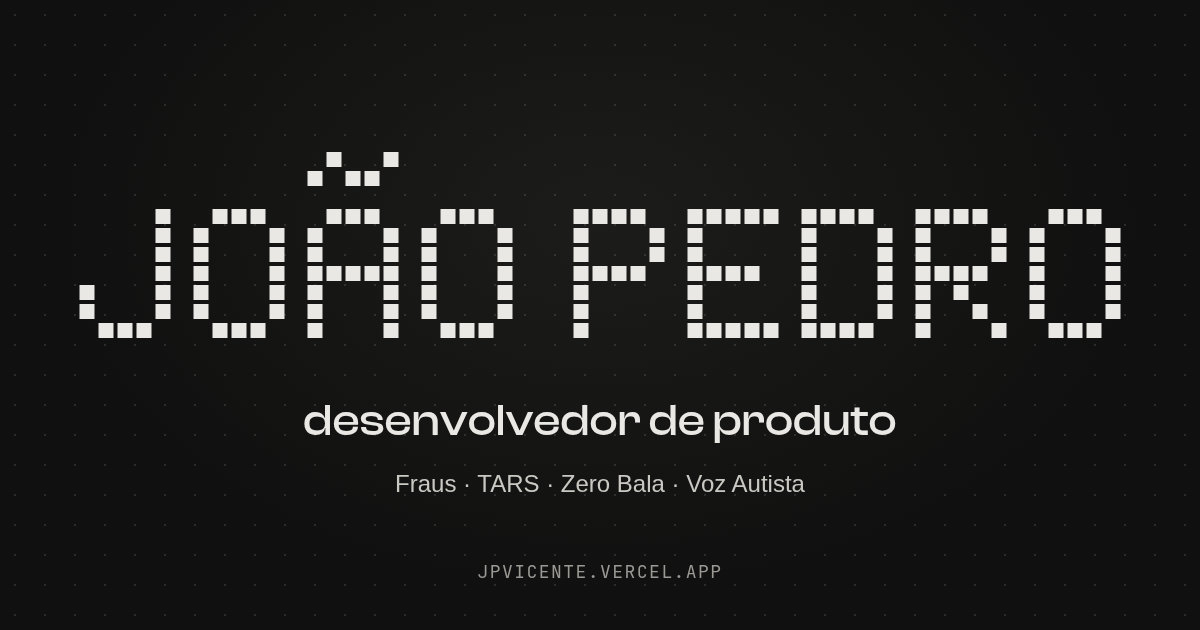
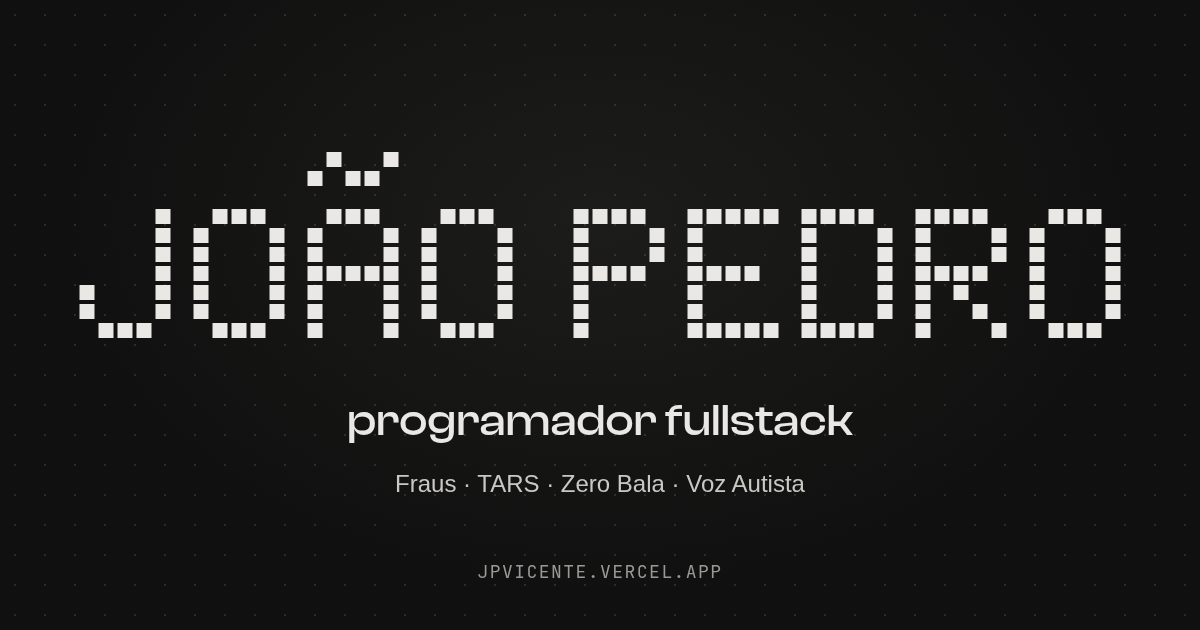
fix: cargo é programador fullstack

Changed region(s): [[0.2467, 0.6333, 0.7708, 0.6937]]

diff --git a/app/page.tsx b/app/page.tsx
@@ -36,7 +36,7 @@ export default function Home() {
         <p className="hero__kicker">Varginha, MG · Brasil</p>
         {/* o nome é desenhado pela malha de pixels do fundo (Field); o texto fica para leitor de tela, sem JS e movimento reduzido */}
         <h1 className="hero__name" data-px-name=""><span>João Pedro</span></h1>
-        <p className="hero__role"><Split text={pt ? "desenvolvedor de produto" : "product developer"} delay={900} step={22} /></p>
+        <p className="hero__role"><Split text={pt ? "programador fullstack" : "full-stack developer"} delay={900} step={22} /></p>
         <p className="hero__sub">{pt ? "Trabalho na Sourei e estudo Ciência da Computação no UNIS-MG. Já publiquei quatro projetos, do banco de dados à interface." : "I work at Sourei and study Computer Science at UNIS-MG. I've shipped four projects, from the database to the interface."}</p>
         <nav className="hero__go" aria-label={pt ? "Atalhos" : "Shortcuts"}>
           <Link href="/projetos/"><MoveRight size={22} strokeWidth={1.4} aria-hidden="true" />{pt ? "ver os projetos" : "see the projects"}</Link>

diff --git a/app/layout.tsx b/app/layout.tsx
@@ -10,15 +10,15 @@ const body = Hanken_Grotesk({ subsets: ["latin"], variable: "--f-body" });
 const mono = JetBrains_Mono({ subsets: ["latin"], variable: "--f-mono" });
 
 export const metadata: Metadata = {
-  title: "João Pedro | Desenvolvedor de produto",
+  title: "João Pedro | Programador fullstack",
   description:
     "Portfólio de João Pedro Tavares Vicente, desenvolvedor em Varginha, MG. Projetos: Fraus, TARS, Zero Bala e Voz Autista.",
   metadataBase: new URL("https://jpvicente.vercel.app"),
   openGraph: {
-    title: "João Pedro | Desenvolvedor de produto",
+    title: "João Pedro | Programador fullstack",
     description: "Faço o produto inteiro: banco de dados, back-end, front e deploy. Fraus, TARS, Zero Bala e Voz Autista.",
     url: "/", siteName: "João Pedro", locale: "pt_BR", type: "website",
-    images: [{ url: "/og.png", width: 1200, height: 630, alt: "João Pedro, desenvolvedor de produto" }],
+    images: [{ url: "/og.png", width: 1200, height: 630, alt: "João Pedro, programador fullstack" }],
   },
   twitter: { card: "summary_large_image", images: ["/og.png"] },
 };

diff --git a/app/content.ts b/app/content.ts
@@ -222,7 +222,7 @@ export const about = {
 export const t = {
   pt: {
     nav: ["Início", "Sobre", "Experiência", "Projetos"],
-    role: "Desenvolvedor de produto",
+    role: "Programador fullstack",
     contact: "Contato",
     back: "Todos os projetos",
     next: "Próximo",
@@ -245,7 +245,7 @@ export const t = {
   },
   en: {
     nav: ["Home", "About", "Experience", "Projects"],
-    role: "Product developer",
+    role: "Full-stack developer",
     contact: "Contact",
     back: "All projects",
     next: "Next",
